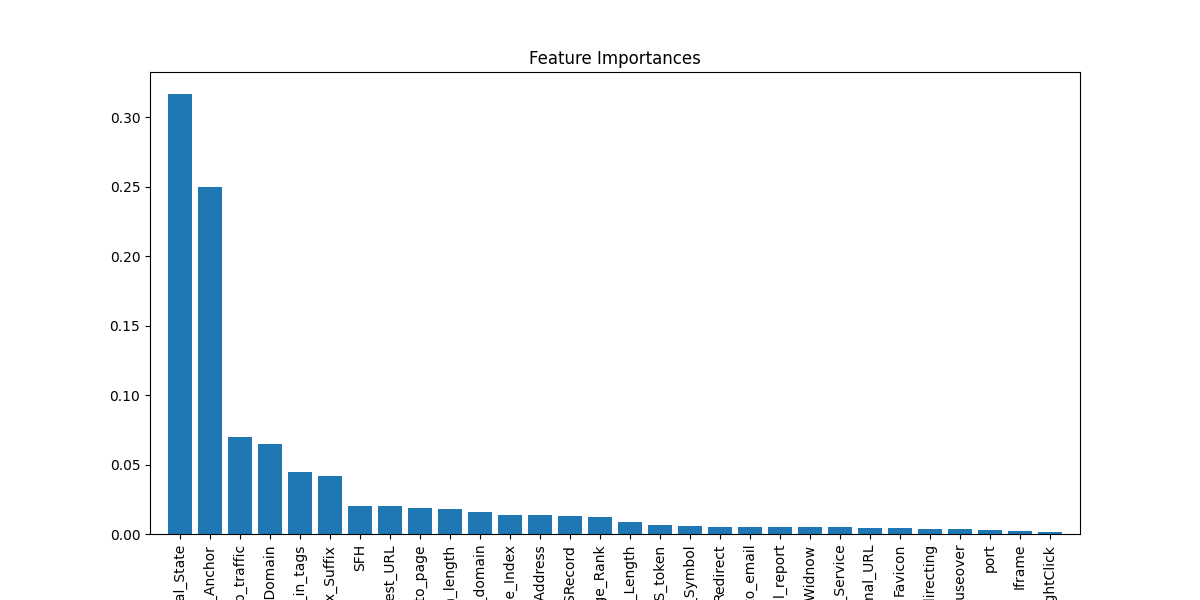
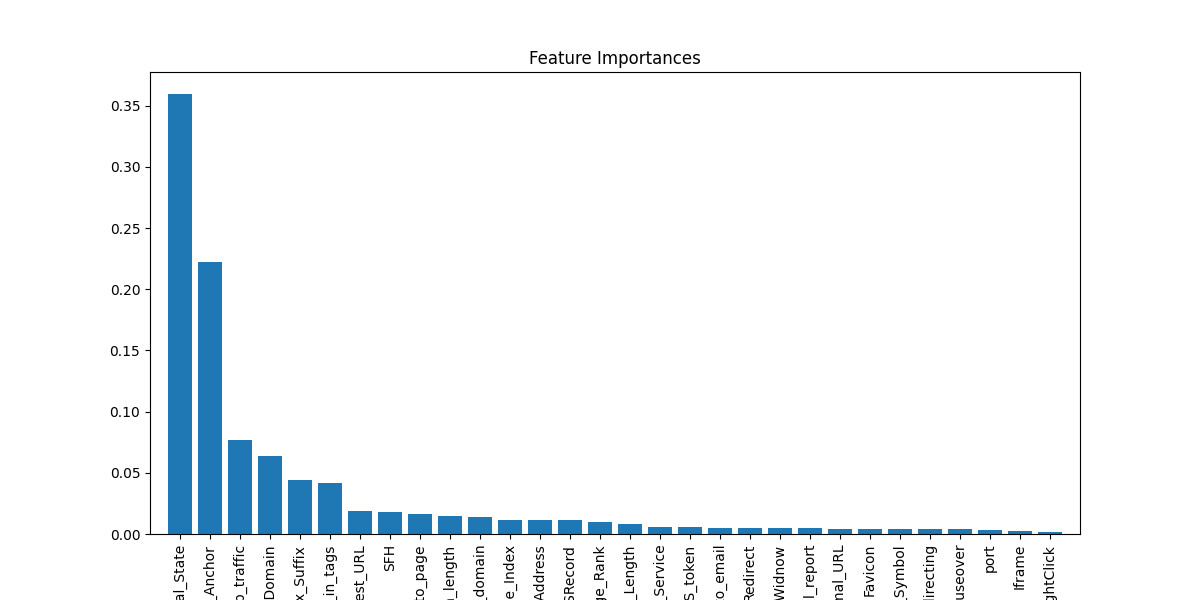
Experimentation with diff values to maximize accuracy

diff --git a/anomalyDetection_Phishing.py b/anomalyDetection_Phishing.py
@@ -45,7 +45,7 @@ scaler = StandardScaler()
 features_scaled = scaler.fit_transform(features)
 
 # Train/test split
-X_train, X_test, y_train, y_test = train_test_split(features_scaled, target, test_size=0.2, random_state=42)
+X_train, X_test, y_train, y_test = train_test_split(features_scaled, target, test_size=0.2, random_state=16)
 
 # Hyperparameter tuning for Random Forest
 param_grid = {
@@ -53,7 +53,7 @@ param_grid = {
     'max_depth': [None, 10, 20, 30],
     'min_samples_split': [2, 5, 10]
 }
-grid_search = GridSearchCV(RandomForestClassifier(random_state=42), param_grid, cv=3, scoring='accuracy')
+grid_search = GridSearchCV(RandomForestClassifier(random_state=16), param_grid, cv=3, scoring='accuracy')
 grid_search.fit(X_train, y_train)
 best_model = grid_search.best_estimator_
 

diff --git a/anomalyDetection_CreditFraud.py b/anomalyDetection_CreditFraud.py
@@ -50,10 +50,10 @@ scaler = StandardScaler()
 features_scaled = scaler.fit_transform(features)
 
 # Train/test split
-X_train, X_test, y_train, y_test = train_test_split(features_scaled, target, test_size=0.2, random_state=42)
+X_train, X_test, y_train, y_test = train_test_split(features_scaled, target, test_size=0.2, random_state=16)
 
 # Train Isolation Forest model
-model = IsolationForest(contamination=0.001, random_state=42)
+model = IsolationForest(contamination=0.001, random_state=16)
 model.fit(X_train)
 
 # Predict anomalies
